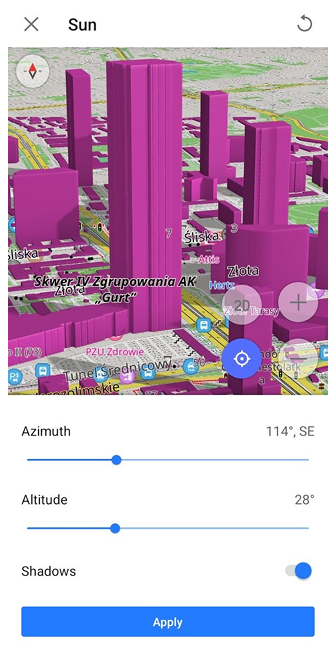
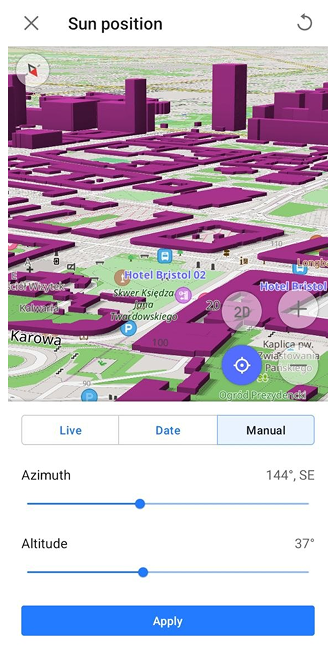
Add changes 3d buildings

diff --git a/main/docs/user/plugins/topography.md b/main/docs/user/plugins/topography.md
@@ -391,7 +391,7 @@ Use the main toggle to enable or disable 3D rendering of buildings. When enabled
 On Android, this option is available only when the Topography plugin is enabled.  
 Go to: *<Translate android="true" ids="shared_string_menu,plugin_settings,srtm_plugin_name"/>*
 
-The 3D buildings settings are divided into two groups, **Appearance** and **Performance**, followed by a separate [**Sun**](#sun) setting (*Android only*).
+The 3D buildings settings are divided into two groups, **Appearance** and **Performance**, followed by a separate [**Sun position**](#sun-position) setting (*Android only*).
 
 ### Appearance {#appearance}
 
@@ -429,7 +429,7 @@ On the preview screens (Color / Visibility), you can use Reset to default from t
 
 ### Performance {#performance}
 
-The **<Translate android="true" ids="performance"/>** controls how 3D buildings are rendered. It includes two settings: Level of detail and View distance.
+The **<Translate android="true" ids="performance"/>** controls how 3D buildings are rendered. It includes three settings: Level of detail, View distance, and Shadows.
 
 **<Translate android="true" ids="level_of_details"/>** determines the complexity of the 3D building geometry:
 - Low (default) — simpler geometry.
@@ -439,26 +439,32 @@ The **<Translate android="true" ids="performance"/>** controls how 3D buildings 
 - Near (default) — renders buildings closer to you.
 - Far — renders buildings from a longer distance.
 
-Both performance options use a two-position toggle right in the 3D buildings settings screen.
+**<Translate android="true" ids="cast_shadows"/>** (*Android only*) controls sun shadows on the map:
+- Off (default) — buildings are drawn without shadows.
+- On — buildings cast shadows on the ground and on the walls of neighboring buildings in the direction set in [<Translate android="true" ids="map_widget_sun_position"/>](#sun-position). When [3D Relief](#3d-relief) is enabled, the terrain also casts shadows. The darkness of building shadows depends on the [Visibility](#appearance) of 3D buildings.
+
+All three performance options use a two-position toggle right in the 3D buildings settings screen. Shadows are set separately for each profile and are available only with the [Version 2 (OpenGL)](#rendering-engine-android) rendering engine.
 
 **Note:** Using *High detail* and *Far view distance* improves visual appearance but may impact performance and increase battery usage.
 
 
-### Sun {#sun}
+### Sun Position {#sun-position}
 
 <InfoAndroidOnly />
 
 ![Sun](@site/static/img/map/sun_setting.webp) ![Sun shadows](@site/static/img/map/sun_shadows.webp)
 
-The **Sun** setting controls the lighting direction used for rendering 3D buildings. It affects how light and shadows appear on buildings in the 3D view. When you tap Sun, OsmAnd opens a preview screen where you can adjust the lighting using two sliders and a switch:
+The **<Translate android="true" ids="map_widget_sun_position"/>** setting defines the direction of light for building shadows and for the Terrain shadows of 3D Relief. You can open it from the 3D buildings screen and from the 3D Relief screen. The row shows the current sun direction, and tapping it opens a preview panel with three modes:
 
-- Azimuth — controls the horizontal direction of the light source (the compass direction of the sun).
-- Altitude — controls the height of the sun above the horizon.
-- Shadows — displays shadows cast by 3D buildings in the direction set by Azimuth and Altitude. Buildings cast shadows on the ground and on the walls of neighboring buildings. When [3D Relief](#3d-relief) is enabled, the terrain also casts shadows. The darkness of building shadows depends on the [Visibility](#appearance) of 3D buildings.
+- **<Translate android="true" ids="sun_light_live"/>** — uses the real position of the sun above the center of the map at the current time. Azimuth and Altitude are shown for reference.
+- **<Translate android="true" ids="shared_string_date"/>** — uses the real position of the sun above the center of the map at the date and time you select. The time is set in the time zone of your device.
+- **<Translate android="true" ids="shared_string_manual"/>** — lets you set the light direction with two sliders:
+    - *<Translate android="true" ids="shared_string_azimuth"/>* — controls the horizontal direction of the light source (the compass direction of the sun).
+    - *<Translate android="true" ids="altitude"/>* — controls the height of the sun above the horizon.
 
-Changing these parameters modifies how shadows fall on buildings and can improve the visual perception of building shapes in 3D view. Tap Apply to confirm the selected lighting parameters.
+Changes appear on the map immediately. Tap Apply to confirm the selected sun position. Reset to default switches to Manual mode with an azimuth of 315° and an altitude of 45°.
 
-**Note:** The Shadows switch is available only with the [Version 2 (OpenGL)](#rendering-engine-android) rendering engine. It is off by default and is set separately for each profile.
+**Note:** Sun position is available only with the [Version 2 (OpenGL)](#rendering-engine-android) rendering engine.
 
 
 ## 3D Relief {#3d-relief}

diff --git a/main/docs/versions/future-android.md b/main/docs/versions/future-android.md
@@ -35,7 +35,7 @@ OsmAnd releases several Ready-To-Use builds daily, allowing you to track new fea
 - **[Spatial Search](https://osmand.net/blog/offline-search-video)** is enabled by default, with more accurate ranking, synonyms, and suggested corrections for misspelled words.
 - **[Android Auto](https://osmand.net/docs/user/navigation/auto-car)** is free for all users and gets [suggestions from recent destinations](https://osmand.net/docs/user/navigation/auto-car#dashboard-suggestions), automatic [Free ride](https://osmand.net/docs/user/navigation/auto-car#destination-points) while driving, and [Google Assistant and Gemini](https://osmand.net/docs/user/navigation/auto-car#voice-control) support.
 - New **Panoramax plugin** with street-level imagery as a map layer, filtered by contributor, date, and type.
-- Realistic **[sun shadows](https://osmand.net/docs/user/plugins/topography#sun)** cast by 3D buildings and terrain.
+- Realistic **[sun shadows](https://osmand.net/docs/user/plugins/topography#sun-position)** cast by 3D buildings and terrain.
 - Media library in **[My Places](https://osmand.net/docs/user/personal/myplaces)** that gathers your photos, videos, and audio notes in one place.
 - Dashed and dotted lines in **[track appearance](https://osmand.net/docs/user/map/tracks/appearance#track-appearance-settings)**, also available as a folder's default appearance.
 - Speed range for route calculation and arrival time based on your actual speed in **[vehicle parameters](https://osmand.net/docs/user/navigation/guidance/vehicle-parameters#default-speed)**.
